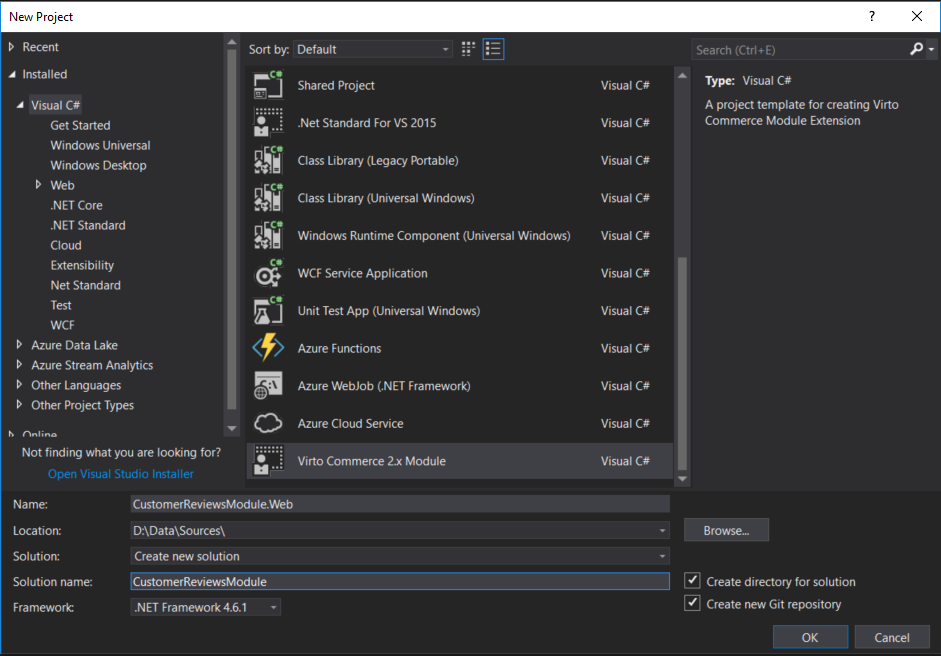
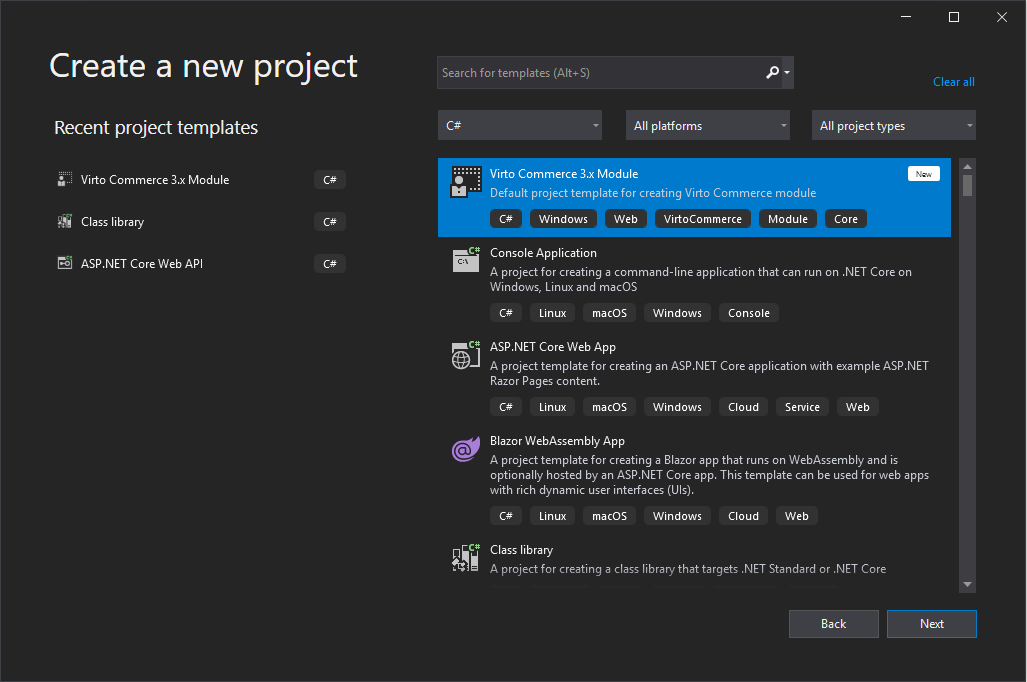
Feat/ccit 343 (#2393)
* feat: Fix broken links

* feat: Fix broken links v2

* feat: Update lesson 3

* CCIT-343: Fix link to lesson 1

* CCIT-343: Fix links

diff --git a/docs/getting-started/lessons/lesson3.md b/docs/getting-started/lessons/lesson3.md
@@ -14,7 +14,7 @@ After completing this lesson, a new module will be created, including:
 * module API for create, delete, update and search customer reviews;
 * test project for testing module API.
 
-Platform Manager UI for the Virto Commerce "Customer Reviews" module will be created in [Lesson 4](./lesson4.md)
+Platform Manager UI for the Virto Commerce "Customer Reviews" module will be created in [Lesson 4](https://virtocommerce.com/docs/latest/getting-started/lessons/lesson4/)
 
 ### Prerequisites
 
@@ -36,17 +36,21 @@ New module should be created from a special VC module template in Visual Studio.
 
 ## Virto Commerce template
 
-Open Visual Studio, go to **Tools > Extensions and Updates**. Search for **Virto Commerce 2.x Module Templates**.
+Open Visual Studio, go to **Extensions > Manage Extensions**. Search for **Virto Commerce 3.x Module Templates**.
 
 ![VS Extensions and Updates](../../media/screen-vs-extensions-and-updates.png)
 
 Install it and restart Visual Studio.
-Now, in Visual Studio click **New Project**, search for an existing **Virto Commerce 2.x Module**. Name it, according to the naming convention. For example:
+Now, in Visual Studio click **Create a new project**, search for an existing **Virto Commerce 3.x Module**. Click **Next**.
+
+![VS New Project](../../media/screen-vs-new-project.png)
+
+Name it, according to the naming convention. For example:
 
 * "Name": **CustomerReviewsModule**;
 * "Solution name": **CustomerReviewsModule**.
 
-![VS New Project](../../media/screen-vs-new-project.png)
+![VS New Project](../../media/screen-vs-name-of-new-project.png)
 
 After new module created fill in title, description and authors attributes in *module.manifest* file:
 
@@ -77,12 +81,15 @@ Now, need to tell the platform that a new module added. For that, connect newly 
 mklink /d CustomerReviewsModule <full_path_to_CustomerReviewsModule_project>
 ```
 
-Also, check and set appropriate permissions for the newly created module folder, so that IIS can access it.
-Here, for the "IIS_IUSRS" group the required permission is "Read & execute":
+Restart Platform Manager, and CustomerReviewsModule module should appear in Platform Manager. Click on **Modules**, **Installed** and choose **CustomerReviewsModule**.
 
-![Permissions for CustomerReviewsModule](../../media/screen-permissionns-for-customerreviewsmodule.png)
+![CustomerReviesModule in Platform Manager](../../media/screen-customerreviesmodule-in-platform-manager-installed.png)
 
-Compile solution and restart IIS (use iisreset.exe command). After that, CustomerReviews module should appear in Platform Manager. Open it in browser to check how new module looks like.
+Then, click on **Settings** and turn on the radio button **CustomerReviewsModule Enabled**. And click **Save**.
+
+![CustomerReviesModule in Platform Manager](../../media/screen-customerreviesmodule-in-platform-manager-settings.png)
+
+Now, you can see **CustomerReviewsModule** in the module list. 
 
 ![CustomerReviesModule in Platform Manager](../../media/screen-customerreviesmodule-in-platform-manager.png)
 
@@ -101,12 +108,12 @@ In Visual Studio:
 1. Click "Debug" from the menu bar;
 1. Click "Attach to Process";
 1. Check the "Show processes from all users" checkbox in the bottom left corner;
-1. Select aspnet_wp.exe, w3p.exe, or w3wp.exe from the process list;
+1. Select dotnet.exe from the process list;
 1. Click "Attach".
 
 ### Swagger UI
 
-"REST API documentation" (Swagger) UI is automatically generated page. It enables to make requests to all the REST API endpoints exposed by Platform and installed modules as well. Browse **[localhost/admin/docs/ui/index]** URL:
+"REST API documentation" (Swagger) UI is automatically generated page. It enables to make requests to all the REST API endpoints exposed by Platform and installed modules as well. Browse **[localhost:5001/docs/]** URL:
 
 ![Swagger UI](../../media/screen-swagger-ui.png)
 
@@ -410,14 +417,14 @@ Typical *module.manifest* structure is:
 
 ```xml
 <version>1.0.0</version>
-<platformVersion>2.13.9</platformVersion>
+<platformVersion>3.83.0</platformVersion>
 ```
 
 * Dependencies - list of modules with versions whose functions will be used in a new module:
 
 ```xml
 <dependencies>
-    <dependenci id="VirtoCommerce.Core" version="2.25.21">
+    <dependenci id="VirtoCommerce.Core" version="3.83.0">
 </dependencies>
 ```
 
@@ -611,7 +618,7 @@ Protecting API controller methods with CheckPermission attribute:
 
 ### Testing Rest API Endpoints in Swagger
 
-Besides the JavaScript, you can test module API endpoints, with the Swagger. Compile solution and restart IIS (use iisreset.exe command). Open the Swagger interface URL: **[localhost//admin/docs/ui/index]** and click on "Customer reviews module" to see the available endpoints.
+Besides the JavaScript, you can test module API endpoints, with the Swagger. Compile solution and restart IIS (use iisreset.exe command). Open the Swagger interface URL: **[localhost:5001/docs/]** and click on "Customer reviews module" to see the available endpoints.
 You can test the search functionality for instance. Under the **api/CustomerReviewsModule/search** endpoint you can create simple or nested, compound criteria. It accepts the criteria as a simple object. After providing the criteria hit the "Try it out" button.
 
 ![Swagger Search API](../../media/screen-swagger-search-api.png)

diff --git a/docs/getting-started/lessons/lesson4.md b/docs/getting-started/lessons/lesson4.md
@@ -7,7 +7,7 @@ priority: 3
 ---
 ## Summary
 
-Use this guide to create Platform Manager UI for the Virto Commerce "Customer Reviews" module (created in the [Lesson 3](./lesson3.md)).
+Use this guide to create Platform Manager UI for the Virto Commerce "Customer Reviews" module (created in the [Lesson 3](https://virtocommerce.com/docs/latest/getting-started/lessons/lesson3/)).
 
 After completing this lesson, a Platform Manager UI for the Virto Commerce "Customer Reviews" module will be created, including:
 
@@ -19,7 +19,7 @@ After completing this lesson, a Platform Manager UI for the Virto Commerce "Cust
 * Installed Virto Commerce Platform Manager
 * Visual Studio 2019 or higher
 * Basic JavaScript (AngularJS) knowledge
-* Passed [Lesson 3](./lesson3.md)
+* Passed [Lesson 3](https://virtocommerce.com/docs/latest/getting-started/lessons/lesson3/)
 
 ### Glossary
 

diff --git a/docs/getting-started/lessons/lesson2.md b/docs/getting-started/lessons/lesson2.md
@@ -27,7 +27,7 @@ In order to have a file with your own products like downloaded **electronics-new
 
 ## Create new Catalog or use an existing one
 
-* Open Virto Commerce Platform (see how to deploy and open it in <a href="https://virtocommerce.com/docs/lessons/lesson1" target="_blank">Lesson 1</a>)
+* Open Virto Commerce Platform (see how to deploy and open it in [Lesson 1](https://virtocommerce.com/docs/latest/getting-started/lessons/lesson1/))
 * There are 2 scenarios for adding new products: adding to a new catalog or to an existing one.
 
 ### Creating new category and subcategory
